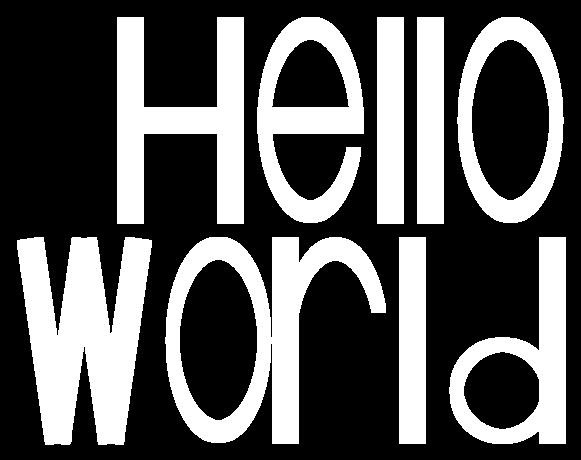
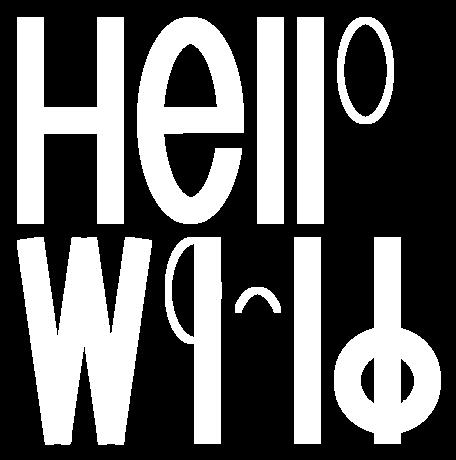
Testing the all.jpg

diff --git a/TP1/labo/labo/src/tp1/LetterFactory.java b/TP1/labo/labo/src/tp1/LetterFactory.java
@@ -10,55 +10,54 @@ public final class LetterFactory {
     // TODO
     public static BaseShape create_H() {
 
-        /*Double spacing = halfMaxWidth;
+        //H
+        Double degrees90 = Math.toRadians(90);
+        Double spacing = stripeThickness * 2;
         BaseShape mainStripe = new Rectangle(stripeThickness, maxHeight);
-        BaseShape leftStripe = mainStripe.translate(new Point2d(-spacing,0.0));
-        BaseShape rightStripe = mainStripe.translate( new Point2d(-spacing,0.0));
-        BaseShape middleStripe = new Rectangle(maxWidth, stripeThickness);
-        leftStripe.add(middleStripe);
-        leftStripe.add(rightStripe);
-        return leftStripe;*/
-        Double spacing = maxWidth/2 - stripeThickness/2;
-        BaseShape mainStripe = new Rectangle(stripeThickness, maxHeight);
-        BaseShape leftStripe = mainStripe.translate(new Point2d(-(spacing),0.0));
+        BaseShape leftStripe = mainStripe.translate(new Point2d(-spacing, 0.0));
+        BaseShape middleStripe = mainStripe.rotate(degrees90);
         BaseShape rightStripe = mainStripe.translate(new Point2d(spacing, 0.0));
-        BaseShape middleStripe = new Rectangle(maxWidth - (2*stripeThickness), stripeThickness);
         leftStripe.add(middleStripe);
         leftStripe.add(rightStripe);
         return leftStripe;
-
-
     }
 
     // TODO
     public static BaseShape create_e() {
         //E
-        Double spacing = halfMaxWidth - stripeThickness/2;
-        BaseShape middleStripe = new Rectangle(maxWidth, stripeThickness);
-        BaseShape mainEllipse = new Ellipse(maxWidth, maxHeight);
-        for(int i = 0; i < 2*stripeThickness; i++) {
-            middleStripe.add(new Ellipse(maxWidth-i,maxHeight-i));
-        }
-        BaseShape modifier = new Rectangle(100.0, stripeThickness).translate(new Point2d(spacing,stripeThickness));
-        mainEllipse.add(middleStripe);
-        mainEllipse.remove(modifier);
-        return mainEllipse;
-
-
+        Double degrees90 = Math.toRadians(90);
+        Double spacing = stripeThickness * 2;
+        BaseShape mainStripe = new Rectangle(stripeThickness, maxHeight);
+        BaseShape leftStripe = mainStripe.translate(new Point2d(-spacing, 0.0));
+        BaseShape halfStripe = new Rectangle(stripeThickness, maxHeight);
+        BaseShape middleStripe = halfStripe.rotate(degrees90);
+        BaseShape upStripe = halfStripe.rotate(degrees90).translate(new Point2d(0.0, spacing));
+        BaseShape downStripe = halfStripe.rotate(degrees90).translate(new Point2d(0.0, -spacing));
+        leftStripe.add(middleStripe);
+        leftStripe.add(upStripe);
+        leftStripe.add(downStripe);
+        return leftStripe;
     }
 
     // TODO
     public static BaseShape create_l() {
         //L
+        Double degrees90 = Math.toRadians(90);
+        Double spacing = stripeThickness * 2;
         BaseShape mainStripe = new Rectangle(stripeThickness, maxHeight);
-        return mainStripe;
+        BaseShape leftStripe = mainStripe.translate(new Point2d(-spacing, 0.0));
+        BaseShape halfStripe = new Rectangle(stripeThickness, maxWidth);
+        BaseShape downStripe = halfStripe.rotate(degrees90).translate(new Point2d(0.0, -spacing));
+        leftStripe.add(downStripe);
+        return leftStripe;
     }
 
     // TODO
     public static BaseShape create_o() {
         //O
-        BaseShape ellipse = new Ellipse(halfMaxWidth,halfMaxHeight);
+        BaseShape ellipse = new Ellipse(halfMaxWidth,maxHeight/2);
         return ellipse;
+
     }
 
     // On vous donne la lettre W comme exemple.
@@ -78,43 +77,36 @@ public final class LetterFactory {
 
     // TODO
     public static BaseShape create_r() {
-        //R
-       /* Double degrees90 = Math.toRadians(90);
+        /*Double degrees90 = Math.toRadians(90);
         Double spacing = stripeThickness * 2;
         BaseShape mainStripe = new Rectangle(stripeThickness, maxHeight);
         BaseShape leftStripe = mainStripe.translate(new Point2d(-spacing, 0.0));
         BaseShape halfStripe = new Rectangle(stripeThickness, maxWidth);
         BaseShape downStripe = halfStripe.rotate(degrees90).translate(new Point2d(0.0, -spacing));
         leftStripe.add(downStripe);
-        return leftStripe;*/
-BaseShape mainStripe = new Rectangle(stripeThickness,maxHeight);
-        BaseShape leftStripe = mainStripe.translate(new Point2d(-halfMaxWidth, 0.0));
-        BaseShape topRound = new Ellipse(halfMaxWidth, halfMaxHeight);
-        BaseShape lowerStripe = new Rectangle(maxWidth, maxHeight).translate(new Point2d(stripeThickness/2,
-                halfMaxHeight/2 +stripeThickness));
-        topRound.remove(lowerStripe);
-        leftStripe.add(topRound);
         return leftStripe;
+                 */
+        Double spacing = maxWidth/2 - stripeThickness/2;
+        BaseShape mainStripe = new Rectangle(stripeThickness, maxHeight).translate(new Point2d(-spacing,0.0));
+        for(int i = 0; i < 2*stripeThickness; i++) {
+            mainStripe.add(new Ellipse(maxWidth-i,maxWidth-i).translate(new Point2d(0.0,-spacing)));
+        }
+        BaseShape modifier = new Rectangle(maxWidth-10.0,maxWidth);
+        mainStripe.remove(modifier.translate(new Point2d(16.0,-spacing/12+2)));
+        return mainStripe;
     }
 
     // TODO
     public static BaseShape create_d() {
         //D
-       /* Double degrees90 = Math.toRadians(90);
+        Double degrees90 = Math.toRadians(90);
         Double spacing = stripeThickness * 2;
         BaseShape mainStripe = new Rectangle(stripeThickness, maxHeight);
         BaseShape leftStripe = mainStripe.translate(new Point2d(-spacing, 0.0));
         BaseShape ellipse = new Ellipse(maxWidth,maxHeight);
         BaseShape halfEllipse=ellipse.translate(new Point2d(0.0,0.0));
         leftStripe.add(halfEllipse);
-        return leftStripe;*/
-
-        Double spacing = maxWidth/2 - stripeThickness/2;
-        BaseShape mainStripe = new Rectangle(stripeThickness, maxHeight);
-        BaseShape rightStripe= mainStripe.translate(new Point2d(spacing+5.0,0.0));
-        for(int i = 0; i < 2*stripeThickness; i++) {
-            mainStripe.add(new Ellipse(maxWidth-i,maxWidth-i).translate(new Point2d(0.0,spacing)));
-        }
-        return mainStripe;
+        return leftStripe;
     }
+
 }

diff --git a/TP1/labo/labo/src/tp1/BaseShape.java b/TP1/labo/labo/src/tp1/BaseShape.java
@@ -79,7 +79,6 @@ public class BaseShape {
            set.remove(pt);
            set.add(pt.rotate(angle));
         }
-
         return set;
     }
 
